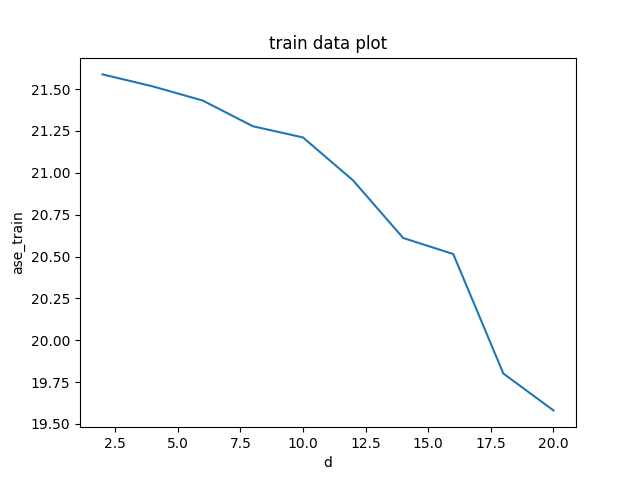
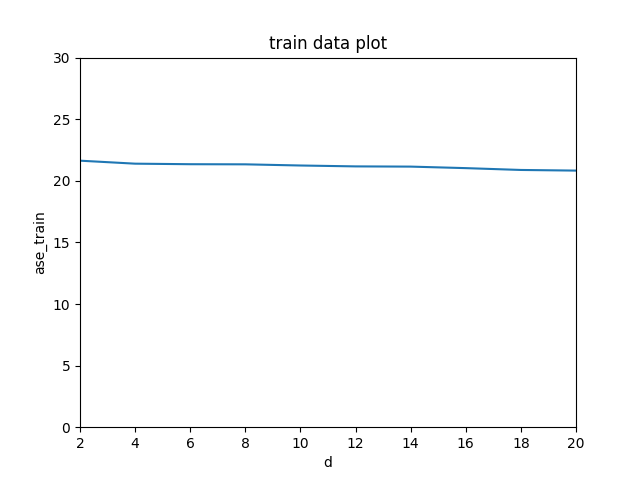
range change

diff --git a/q1_4.py b/q1_4.py
@@ -81,6 +81,8 @@ if __name__ == '__main__':
     plt.title("train data plot")
     plt.xlabel('d')
     plt.ylabel('ase_train')
+    plt.ylim(0,30) 
+    plt.xlim(2,20) 
     plt.savefig("train_plot.png")
     plt.clf()		
 		
